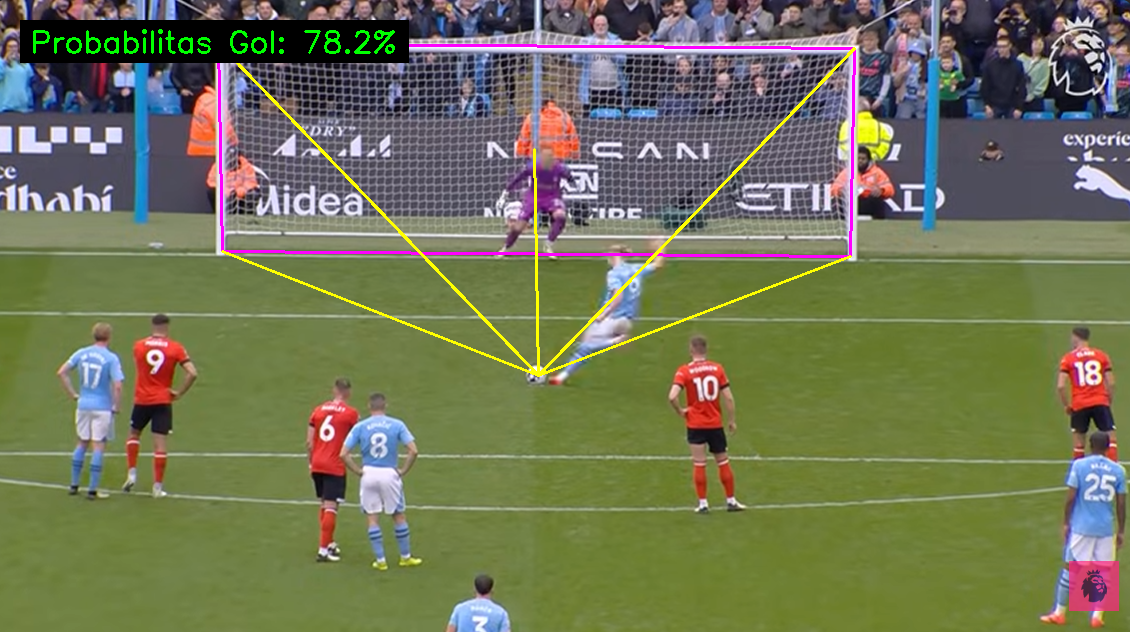
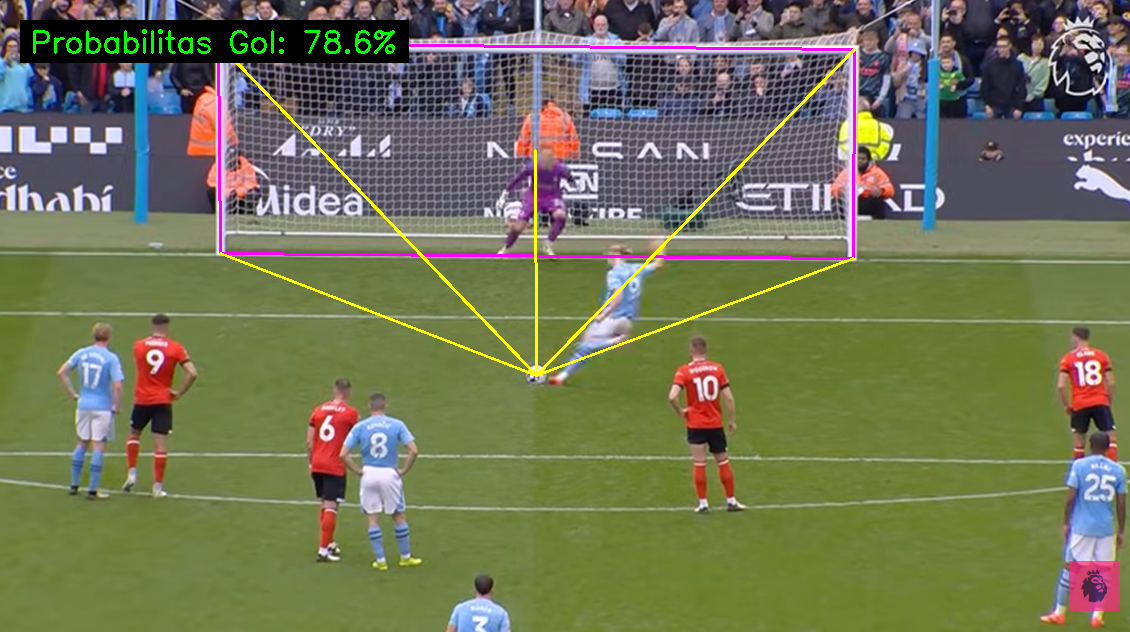
feat: add keeper calculated by affine

diff --git a/main.py b/main.py
@@ -46,13 +46,17 @@ def main():
     print("\n--- Langkah 2: Tandai Pemain Bertahan pada Gambar Tembakan ---")
     defender_points_shot = marker.mark_defenders(shot_img_path, shot_points)
     print(f"Menandai {len(defender_points_shot)} pemain bertahan.")
+    if "Kiper" in shot_points:
+        keeper_pt = shot_points["Kiper"]
+        if keeper_pt not in defender_points_shot:
+            defender_points_shot.append(keeper_pt)
+            print("Menambahkan Kiper sebagai penghalang.")
 
     # Langkah 3: Menandai gambar lapangan FIFA
     print("\n--- Langkah 3: Tandai Lapangan FIFA ---")
     print("Silakan tandai titik-titik yang sesuai pada peta 2D.")
     field_points = marker.mark_points(field_img_path, [
         "Bola", 
-        "Kiper", 
         "Tiang Kiri", 
         "Tiang Kanan"
     ])
